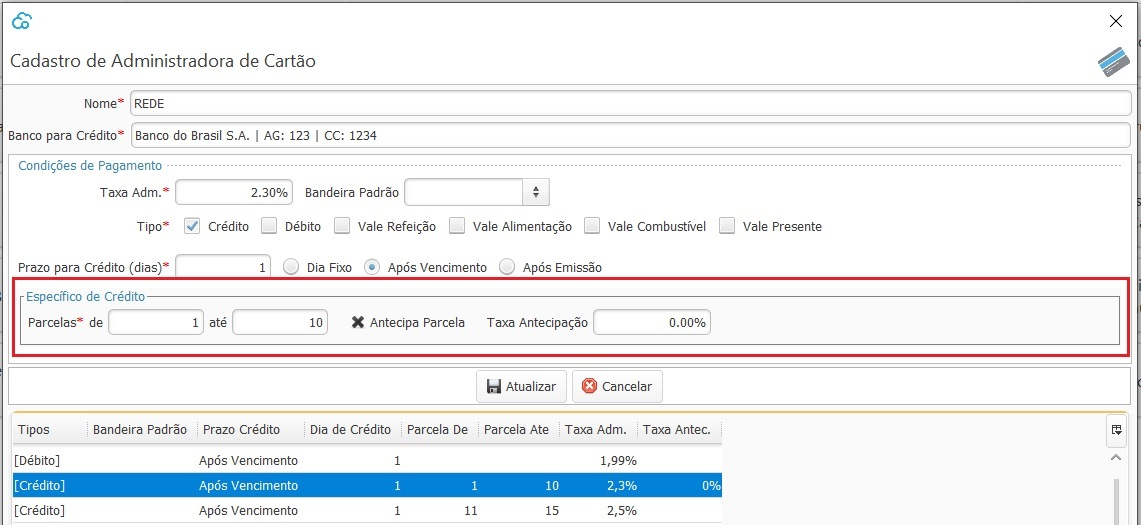
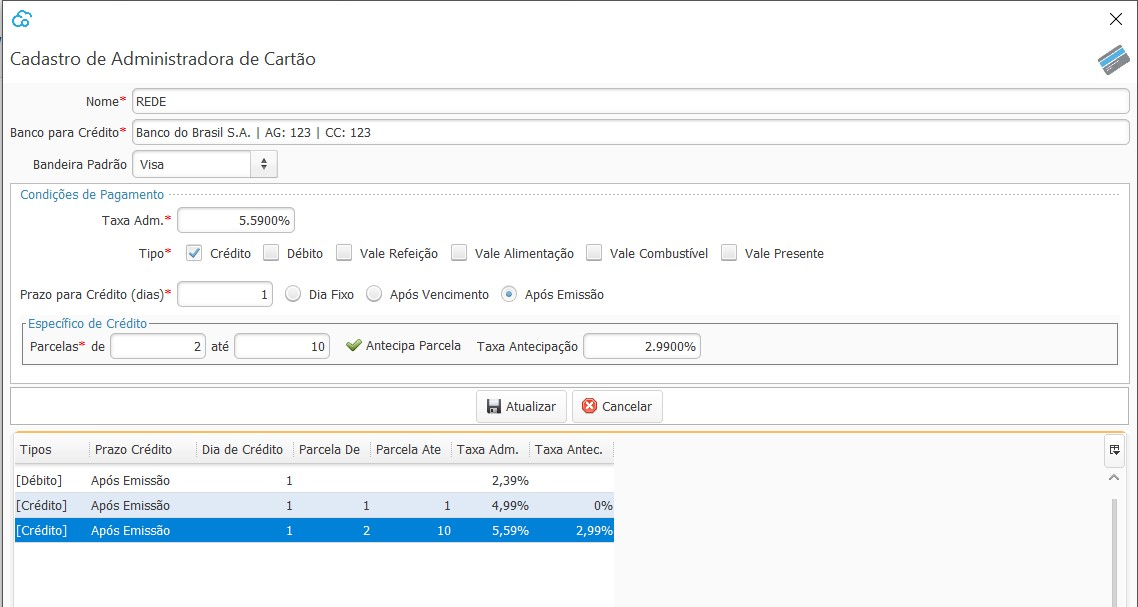
administradora_cartão

Changed region(s): [[0.0, 0.0, 1.0, 1.0]]

diff --git a/docs/financeiro_administradora_cartao.md b/docs/financeiro_administradora_cartao.md
@@ -1,22 +1,24 @@
 ### Administradora de Cartão
 
+#### Cadastro
+
+{: #cadastro}
+
 Nesta tela devem ser cadastradas todas as operadoras de cartão com que a empresa trabalha bem como as taxas acordadas que serão utilizadas para o cálculo do valor líquido a receber na conciliação de recebimento de cartão.
 
 Podem ser cadastradas várias parametrizações de taxas por Operadora.
 
 Por exemplo: pode ser cadastrada uma taxa para compras recebidas no débito:
 
-![](images/financeiro_administradora_cartao_debito.JPG)
+![](images/financeiro_administradora_cartao_debito.jpg)
 
-e quando a parametrização for Tipo crédito, abrirá alguns campos específicos para essa modalidade, onde pode ser parametrizado uma taxa para um determinado número de parcelas:
+e quando a parametrização for Tipo crédito, abrirá alguns campos específicos para essa modalidade, onde pode ser parametrizado uma taxa para crédito à vista (1 parcela) ou por um determinado número de parcelas:
 
-![](images/financeiro_administradora_cartao_credito.jpg)
+![](images/financeiro_administradora_cartao_creditoavista.jpg)
 
 e uma taxa diferente para outro número de parcelas
 
-![](images/financeiro_administradora_cartao_credito2.jpg)
-
-
+![](images/financeiro_administradora_cartao_credito.jpg)
 
 No caso de antecipação de recebimento também existe uma parametrização específica. 
 
@@ -27,6 +29,68 @@ Também deve ser informado o prazo para o recebimento, que no caso abaixo é de 
 Caso não haja antecipação, o prazo será 1 dia após o vencimento de cada parcela.
 
 ![](images/financeiro_administradora_cartao_credito_antecipa.jpg)
+
+
+
+#### Recebimento
+
+{: #recebimento
+
+Com botão inverso do mouse em  ou no botão `Mais` no lado inferior direito da tela, ou ainda através dos atalhos  `Ctrl+R` é possível acessar a tela para Recebimento de Cartão.
+
+![](images/financeiro_administradora_cartao_recebimento.jpg)
+
+
+
+Na parte superior da tela estão disponíveis os filtros a serem aplicados para a busca das parcelas:
+
+
+
+##### Filtros:
+
+*Status:* Aberto: Parcelas que ainda não foram recebidas é o filtro default na abertura da tela.
+
+             Liquidado: Parcelas que já foram recebidas.
+
+              Cancelado: Quando a Venda que originou a parcela foi Cancelada.
+
+
+
+*Emitido*: Data de lançamento informada na Compra que originou as parcelas.
+
+*Vencendo:* Data calculada pelo sistema, para transações no débito e vouchers o vencimento  é o mesmo dia da emissão. Para transações no crédito o vencimento é de 30 em 30 dias, 30, 60, 90, 120 assim por diante.
+
+*Crédito:* Data calculada pelo sistema, através dos parâmetros de prazo para crédito no [cadastro da administradora de cartão](financeiro_administradora_cartao.md#cadastro).
+
+
+
+![](images/financeiro_administradora_cartao_recebimento1.jpg)
+
+
+
+Com botão inverso do mouse em cima das parcelas,  ou no botão `Mais` no lado inferior direito da tela, ou ainda através dos atalhos  `Ctrl+E` e `Ctrl+R` é possível acessar os menus Editar, e Receber.
+
+##### Editar
+
+Nesta tela pode-se alterar a data de vencimento e data de crédito ou ainda o  valor calculado da taxa administrativa ou da taxa de antecipação.
+
+Quando forem alterados os valores das taxas, o sistema fará no recebimento do cartão a contabilização da diferença entre o valor de taxas que estava calculado, que já havia sido contabilizado na venda, e o valor que foi alterado de acordo com as contas parametrizadas nos [parâmetros contábeis](contabilidade_parametro_contabil_contas_receber.md).
+
+![](images/financeiro_administradora_cartao_recebimento_editar.jpg)
+
+
+
+##### Receber
+
+Nesta tela é informado o valor líquido que será recebido e também a conta que será feito o crédito do valor. A Data do recebimento deverá ser informada manualmente, esta é a data da movimentação no banco.
+
+![](images/financeiro_administradora_cartao_recebimento2.jpg)
+
+
+
+Ao clicar em receber o valor será gerada uma transação de entrada no banco:
+
+![](images/financeiro_administradora_cartao_recebimento_banco.jpg)
 
 
 
